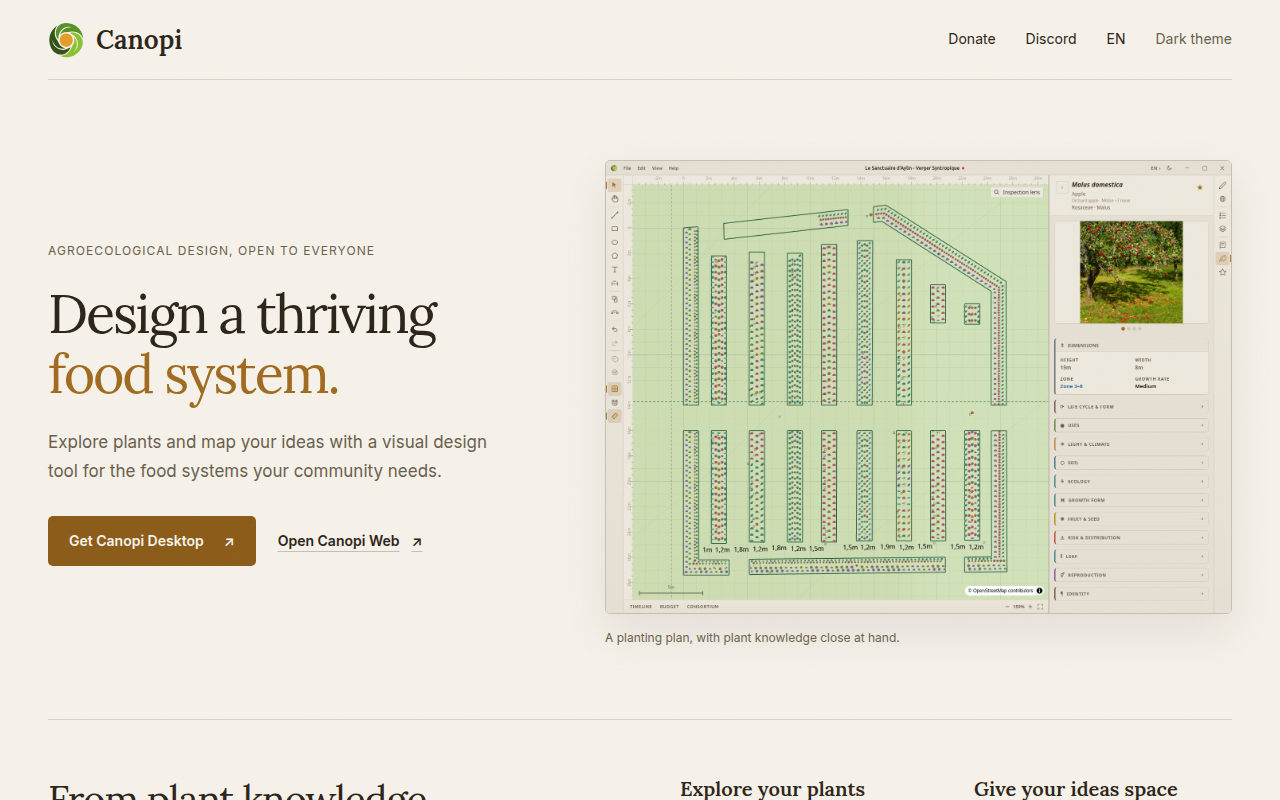
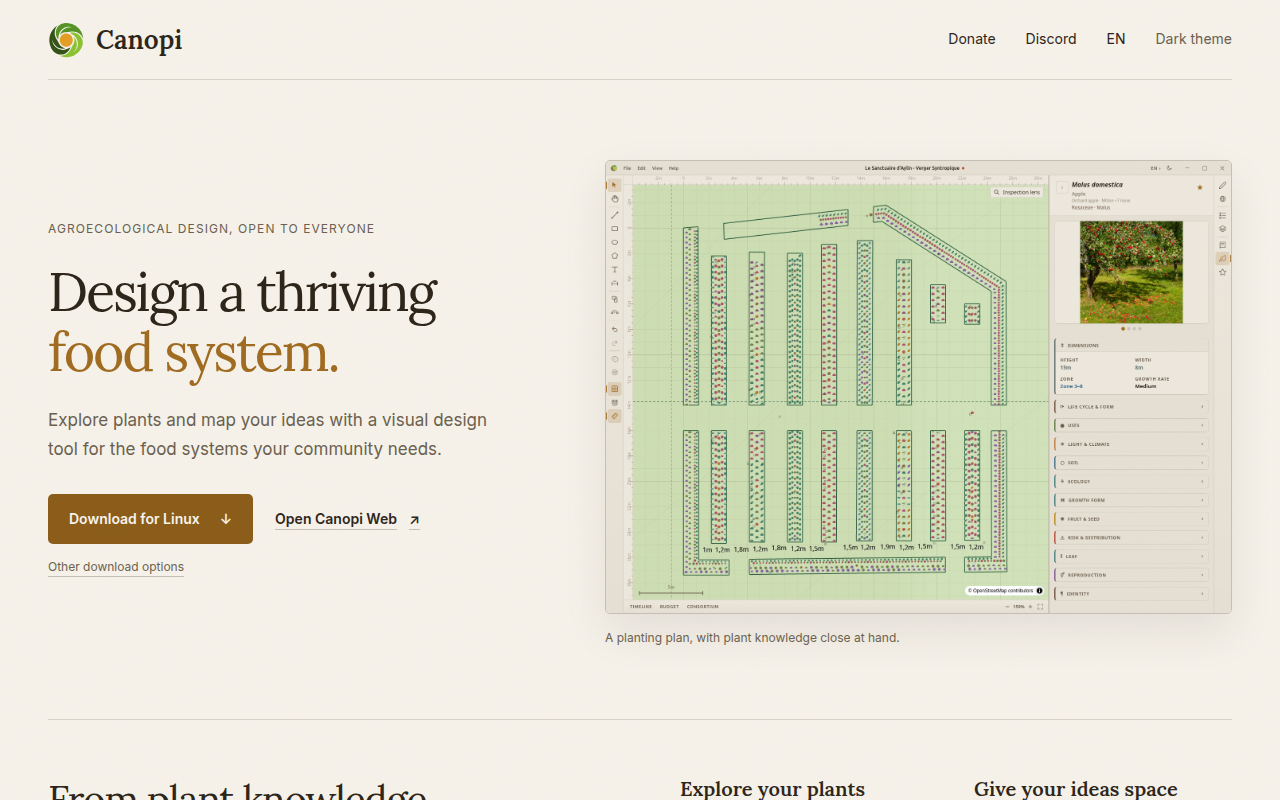
docs: improve proposal downloads and add restoration organizations

Changed region(s): [[0.0312, 0.2812, 0.375, 0.7188]]

diff --git a/docs/design-proposal/index.html b/docs/design-proposal/index.html
@@ -22,7 +22,7 @@
         <p class="eyebrow">Agroecological design, open to everyone</p>
         <h1 id="hero-title">Design a thriving<br><span>food system.</span></h1>
         <p class="lead">Explore plants and map your ideas with a visual design tool for the food systems your community needs.</p>
-        <div class="actions"><a class="button primary" href="#editions">Get Canopi Desktop <span aria-hidden="true">↗</span></a><a class="text-link" href="https://web.projectcanopi.com/">Open Canopi Web <span aria-hidden="true">↗</span></a></div>
+        <div class="actions"><a class="button primary" href="#download-options" data-desktop-download><span data-download-label>Download Canopi Desktop</span> <span aria-hidden="true">↓</span></a><a class="text-link" href="https://web.projectcanopi.com/">Open Canopi Web <span aria-hidden="true">↗</span></a></div><a class="text-link other-downloads" href="#download-options">Other download options</a>
       </div>
       <figure class="product"><a href="orchard-screenshot.png" aria-label="View full Canopi app screenshot"><img src="orchard-screenshot.png" width="1570" height="1135" alt="Canopi showing a syntropic orchard plan with diverse planting rows and spacing measurements beside an apple tree profile."></a><figcaption>A planting plan, with plant knowledge close at hand.</figcaption></figure>
     </section>
@@ -31,8 +31,8 @@
       <div class="workflow-copy"><article><h3>Explore your plants</h3><p>Bring plant dimensions, growing conditions and ecological information into your design decisions.</p></article><article><h3>Give your ideas space</h3><p>Arrange your planting plan on a scaled canvas, with plants and annotations in one workspace.</p></article><a class="text-link" href="#demo">See the canvas in action <span aria-hidden="true">↓</span></a></div>
     </section>
     <section class="demo wrap" id="demo" aria-labelledby="demo-title"><div class="section-heading"><h2 id="demo-title">A closer look at Canopi.</h2><p>Watch the design canvas in use.</p></div><video controls playsinline preload="none" poster="orchard-screenshot.png" aria-label="Silent demonstration of Canopi canvas tools"><source src="../../public/demo-canopi-720.mp4" type="video/mp4"></video><p class="caption">Silent screen recording. Use the playback controls to pause or explore.</p></section>
-    <section class="editions wrap" id="editions" aria-labelledby="editions-title"><div class="section-heading"><h2 id="editions-title">Choose where you design.</h2><p>Two editions. The same canvas tools.</p></div><div class="edition-grid"><article><h3>Canopi Desktop</h3><p>The larger plant catalog, on your computer.<br>Available for Linux, macOS and Windows.</p><a class="button primary" href="https://github.com/naejin/canopi/releases">Download Canopi Desktop <span aria-hidden="true">↗</span></a><p class="caption">Choose your installer on the releases page.</p></article><article><h3>Canopi Web</h3><p>Open the canvas in your browser.<br>A smaller plant catalog, with no installation.</p><a class="button secondary" href="https://web.projectcanopi.com/">Open Canopi Web <span aria-hidden="true">↗</span></a></article></div></section>
-    <section class="network wrap" aria-labelledby="network-title"><div class="section-heading"><h2 id="network-title">Agroecology network</h2><p>Discover organizations working across the wider agroecology movement.</p></div><div id="network-groups"><details><summary>Global</summary><ul><li><a href="https://www.deepseed.eu/">DeepSeed ↗</a></li><li><a href="https://agroecologyfund.org/">Agroecology Fund ↗</a></li><li><a href="https://www.accessagriculture.org/">Access Agriculture ↗</a></li><li><a href="https://savory.global/">Savory Institute ↗</a></li></ul></details><details><summary>Europe</summary><ul><li><a href="https://www.agroecology-europe.org/">Agroecology Europe ↗</a></li></ul></details><details><summary>France</summary><ul><li><a href="https://joala.fr/">Joala Syntropie ↗</a></li><li><a href="https://destinationsyntropie.org/">Destination Syntropie ↗</a></li><li><a href="https://www.lvh-france.com/">La Vache Heureuse ↗</a></li><li><a href="https://www.verdeterreprod.fr/">Ver de Terre Production ↗</a></li><li><a href="https://centre-national-agroecologie.fr/">Centre National d’Agroécologie ↗</a></li><li><a href="https://www.maraichagesolvivant.fr/">Maraîchage Sol Vivant ↗</a></li><li><a href="https://www.centreagroecologie.fr/">Centre for Living Agroecology and food Systems ↗</a></li></ul></details><details><summary>Switzerland</summary><ul><li><a href="https://www.biovision.ch/en/">Biovision ↗</a></li></ul></details><details><summary>United States</summary><ul><li><a href="https://rodaleinstitute.org/">Rodale Institute ↗</a></li><li><a href="https://regenorganic.org/">Regenerative Organic Alliance ↗</a></li></ul></details><details><summary>Brazil</summary><ul><li><a href="https://agendagotsch.com/en/">Agenda Gotsch ↗</a></li></ul></details><details><summary>India</summary><ul><li><a href="https://apcnf.in/">Andhra Pradesh Community Managed Natural Farming ↗</a></li></ul></details></div><p class="caption">An ecosystem directory, without implying partnership or endorsement.</p></section>
+    <section class="editions wrap" id="editions" aria-labelledby="editions-title"><div class="section-heading"><h2 id="editions-title">Choose where you design.</h2><p>Two editions. The same canvas tools.</p></div><div class="edition-grid"><article><h3>Canopi Desktop</h3><p>The larger plant catalog, on your computer.<br>Available for Linux, macOS and Windows.</p><a class="button primary" href="#download-options" data-desktop-download><span data-download-label>Download Canopi Desktop</span> <span aria-hidden="true">↓</span></a><a class="text-link other-downloads" href="#download-options">Other download options</a></article><article><h3>Canopi Web</h3><p>Open the canvas in your browser.<br>A smaller plant catalog, with no installation.</p><a class="button secondary" href="https://web.projectcanopi.com/">Open Canopi Web <span aria-hidden="true">↗</span></a></article></div><details id="download-options" class="download-options"><summary>Choose your download</summary><p>Choose the computer you want to install Canopi on.</p><div class="installer-grid"><section aria-labelledby="windows-title"><h3 id="windows-title">Windows</h3><a class="installer-link" data-installer="windows" href="https://github.com/naejin/canopi/releases/download/v1.0.1/Canopi_1.0.1_x64-setup.exe">Download for Windows <span aria-hidden="true">↓</span></a><p>64-bit Intel or AMD computer.</p><details><summary>More options</summary><a class="installer-link" data-installer="msi" href="https://github.com/naejin/canopi/releases/download/v1.0.1/Canopi_1.0.1_x64_en-US.msi">Windows MSI installer <span aria-hidden="true">↓</span></a></details></section><section aria-labelledby="mac-title"><h3 id="mac-title">macOS</h3><a class="installer-link" data-installer="mac-arm" href="https://github.com/naejin/canopi/releases/download/v1.0.1/Canopi_1.0.1_aarch64.dmg">Mac with Apple silicon <span aria-hidden="true">↓</span></a><a class="installer-link" data-installer="mac-intel" href="https://github.com/naejin/canopi/releases/download/v1.0.1/Canopi_1.0.1_x64.dmg">Mac with Intel chip <span aria-hidden="true">↓</span></a><p>Not sure? Open the Apple menu → About This Mac. Look for “Chip” (Apple M-series) or “Processor” (Intel).</p></section><section aria-labelledby="linux-title"><h3 id="linux-title">Linux</h3><a class="installer-link" data-installer="linux" href="https://github.com/naejin/canopi/releases/download/v1.0.1/Canopi_1.0.1_amd64.AppImage">Linux AppImage <span aria-hidden="true">↓</span></a><a class="installer-link" data-installer="deb" href="https://github.com/naejin/canopi/releases/download/v1.0.1/Canopi_1.0.1_amd64.deb">Ubuntu / Debian <span aria-hidden="true">↓</span></a><p>For 64-bit Intel or AMD computers. Choose Ubuntu / Debian if that is your Linux distribution.</p></section></div><p class="caption">On a phone, Chromebook or another device? You can <a href="https://web.projectcanopi.com/">open Canopi Web</a>.</p></details><p id="install-guidance" class="install-guidance" role="status" aria-live="polite"></p></section>
+    <section class="network wrap" aria-labelledby="network-title"><div class="section-heading"><h2 id="network-title">Agroecology network</h2><p>Discover organizations working across the wider agroecology movement.</p></div><div id="network-groups"><details><summary>Global</summary><ul><li><a href="https://www.deepseed.eu/">DeepSeed ↗</a></li><li><a href="https://agroecologyfund.org/">Agroecology Fund ↗</a></li><li><a href="https://www.accessagriculture.org/">Access Agriculture ↗</a></li><li><a href="https://savory.global/">Savory Institute ↗</a></li><li><a href="https://ecosystemrestorationcommunities.org/">Ecosystem Restoration Communities ↗</a></li><li><a href="https://www.ecosystemrestorationfriends.com/">Friends of the Ecosystem Restoration Movement ↗</a></li></ul></details><details><summary>Europe</summary><ul><li><a href="https://www.agroecology-europe.org/">Agroecology Europe ↗</a></li></ul></details><details><summary>France</summary><ul><li><a href="https://joala.fr/">Joala Syntropie ↗</a></li><li><a href="https://destinationsyntropie.org/">Destination Syntropie ↗</a></li><li><a href="https://www.lvh-france.com/">La Vache Heureuse ↗</a></li><li><a href="https://www.verdeterreprod.fr/">Ver de Terre Production ↗</a></li><li><a href="https://centre-national-agroecologie.fr/">Centre National d’Agroécologie ↗</a></li><li><a href="https://www.maraichagesolvivant.fr/">Maraîchage Sol Vivant ↗</a></li><li><a href="https://www.centreagroecologie.fr/">Centre for Living Agroecology and food Systems ↗</a></li></ul></details><details><summary>Switzerland</summary><ul><li><a href="https://www.biovision.ch/en/">Biovision ↗</a></li></ul></details><details><summary>United States</summary><ul><li><a href="https://rodaleinstitute.org/">Rodale Institute ↗</a></li><li><a href="https://regenorganic.org/">Regenerative Organic Alliance ↗</a></li></ul></details><details><summary>Brazil</summary><ul><li><a href="https://agendagotsch.com/en/">Agenda Gotsch ↗</a></li></ul></details><details><summary>India</summary><ul><li><a href="https://apcnf.in/">Andhra Pradesh Community Managed Natural Farming ↗</a></li></ul></details></div><p class="caption">An ecosystem directory, without implying partnership or endorsement.</p></section>
   </main>
   <footer class="wrap"><a class="brand" href="https://projectcanopi.com/"><img src="../../public/canopi-logo.svg" width="28" height="28" alt="">Canopi</a><span>AGPL v3</span><a href="https://github.com/naejin/canopi/releases">All releases on GitHub ↗</a></footer>
   <script>
@@ -41,5 +41,6 @@
     try { setTheme(localStorage.getItem('canopi-proposal-theme') === 'dark'); } catch {}
     toggle.addEventListener('click', () => { const dark = document.documentElement.dataset.theme !== 'dark'; setTheme(dark); try { localStorage.setItem('canopi-proposal-theme', dark ? 'dark' : 'light'); } catch {} });
   </script>
+  <script src="downloads.js"></script>
 </body>
 </html>

diff --git a/docs/design-proposal/downloads.js b/docs/design-proposal/downloads.js
@@ -1,0 +1,66 @@
+// Keep uncertain devices in the chooser instead of guessing an installer.
+function detectInstaller(ua, platform, architecture, touchPoints = 0) {
+  const device = `${platform} ${ua}`;
+  if (/Android|iPhone|iPad|iPod|CrOS/i.test(device) || (/Mac/i.test(device) && touchPoints > 1)) return null;
+  const arm = /arm|aarch/i.test(architecture || ua);
+  if (/Windows/i.test(device)) return arm ? null : 'windows';
+  if (/Mac/i.test(device)) {
+    if (!architecture) return null;
+    return arm ? 'mac-arm' : /x86|x64/i.test(architecture) ? 'mac-intel' : null;
+  }
+  if (/Linux/i.test(device)) return arm ? null : /x86_64|amd64|x64|x86/i.test(`${architecture} ${ua}`) ? 'linux' : null;
+  return null;
+}
+
+(() => {
+  const chooser = document.querySelector('#download-options');
+  const primaryLinks = [...document.querySelectorAll('[data-desktop-download]')];
+  const labels = { windows: 'Download for Windows', 'mac-arm': 'Download for Mac', 'mac-intel': 'Download for Mac', linux: 'Download for Linux' };
+  const guidance = {
+    windows: 'Open the downloaded .exe file from your Downloads folder and follow the installer steps.',
+    msi: 'Open the downloaded .msi file from your Downloads folder and follow the installer steps.',
+    'mac-arm': 'Open the downloaded .dmg file, then drag Canopi into Applications.',
+    'mac-intel': 'Open the downloaded .dmg file, then drag Canopi into Applications.',
+    linux: 'In your Downloads folder, open the AppImage file’s Properties and allow it to run as a program. Then open the file.',
+    deb: 'Open the downloaded .deb file with your software installer and choose Install.'
+  };
+
+  document.addEventListener('click', event => {
+    const link = event.target.closest('a');
+    if (!link || event.metaKey || event.ctrlKey || event.shiftKey || event.altKey) return;
+    if (link.getAttribute('href') === '#download-options') {
+      event.preventDefault();
+      chooser.open = true;
+      chooser.querySelector('summary').focus({ preventScroll: true });
+      chooser.scrollIntoView({ block: 'start' });
+    }
+    if (link.dataset.installer) {
+      const note = document.querySelector('#install-guidance');
+      note.textContent = `After downloading: ${guidance[link.dataset.installer]} If the download does not start, use the same download link to try again.`;
+      // Let the attachment link proceed normally; the page cannot confirm completion.
+      const container = link.closest('.intro, .edition-grid article, .installer-grid');
+      container.append(note);
+    }
+  });
+
+  const apply = (platform = '', architecture = '') => {
+    primaryLinks.forEach(link => {
+      link.href = '#download-options';
+      delete link.dataset.installer;
+      link.querySelector('[data-download-label]').textContent = 'Download Canopi Desktop';
+    });
+    const key = detectInstaller(navigator.userAgent, platform, architecture, navigator.maxTouchPoints);
+    if (!key) return;
+    const source = chooser.querySelector(`[data-installer="${key}"]`);
+    primaryLinks.forEach(link => {
+      link.href = source.href;
+      link.dataset.installer = key;
+      link.querySelector('[data-download-label]').textContent = labels[key];
+    });
+  };
+  apply();
+  const hints = navigator.userAgentData;
+  if (hints?.getHighEntropyValues) {
+    hints.getHighEntropyValues(['platform', 'architecture']).then(data => apply(data.platform, data.architecture)).catch(() => {});
+  }
+})();

diff --git a/docs/design-proposal/proposal.css b/docs/design-proposal/proposal.css
@@ -49,6 +49,17 @@ footer { display: flex; align-items: center; gap: 24px; padding-block: 28px; bor
 footer > a:last-child { margin-left: auto; }
 .skip { position: absolute; top: -100px; left: 20px; background: var(--canvas-bg); padding: 12px; z-index: 10000; }
 .skip:focus { top: 12px; }
+.other-downloads { display: flex; width: fit-content; font-size: 12px; font-weight: 400; color: var(--color-text-muted); }
+.download-options { margin-top: 28px; scroll-margin-top: 24px; }
+.download-options > summary { font-weight: 600; }
+.download-options p { font-size: 14px; color: var(--color-text-muted); line-height: 1.7; }
+.installer-grid { display: grid; grid-template-columns: repeat(3, minmax(0, 1fr)); gap: 32px; padding-block: 24px; }
+.installer-link { display: flex; justify-content: space-between; gap: 12px; padding-block: 14px; font-size: 14px; text-decoration: underline; text-underline-offset: 4px; }
+.installer-grid section { min-width: 0; }
+.installer-grid details { margin-top: 16px; }
+.install-guidance:not(:empty) { padding: 16px; margin-top: 16px; border-left: 3px solid var(--color-primary); background: var(--color-surface); font-size: 14px; line-height: 1.7; }
+.install-guidance { grid-column: 1 / -1; }
+@media (max-width: 639px) { .installer-grid { grid-template-columns: 1fr; gap: 28px; } }
 @media (min-width: 960px) { header { height: 80px; } }
 @media (max-width: 959px) { .hero { grid-template-columns: 1fr; gap: 36px; padding-block: 48px; } .intro { max-width: 600px; } .product { max-width: 720px; } .workflow { gap: 32px; } }
 @media (max-width: 639px) {

diff --git a/docs/design-proposal/README.md b/docs/design-proposal/README.md
@@ -22,14 +22,14 @@ These are design judgments based on browser inspection, not measured conversion 
 
 Keep the existing brand and make the product the focal point. Use a two-line headline, a concrete explanation, and the supplied app screenshot alongside each other. The screenshot begins at y=160 on desktop and links to the full-resolution source. At 1280 × 800, both hero actions remain visible.
 
-Follow with two short, observable capabilities: exploring plant information and arranging a planting plan. Keep the real demonstration as a user-controlled video further down. Explain the editions before sending visitors to the browser or installer releases. Retain all 17 organizations in seven native expandable country/region groups.
+Follow with two short, observable capabilities: exploring plant information and arranging a planting plan. Keep the real demonstration as a user-controlled video further down. Explain the editions before sending visitors to the browser or installer releases. Retain all 19 organizations in seven native expandable country/region groups.
 
 Design settings: variance 5, motion 2, density 3. Native HTML/CSS uses the established Canopi palette, Lora display and Inter body at weights 400/600. Motion only provides button feedback. Existing global grain is reused. The primary light-theme button uses the existing darker ochre hover shade to improve text contrast.
 
 ## Preview scope and validation
 
-This is an English review prototype. Production localization, platform-detected direct downloads, and the existing language menu remain in the live components. The prototype links to GitHub releases for installer selection and the current site for language selection. The light app screenshot intentionally remains an authentic screenshot when the surrounding page switches to dark mode.
+This is an English review prototype. Production localization and the existing language menu remain in the live components. The prototype offers direct installers for the repository’s 1.0.1 release, device-aware download buttons, a native on-page chooser, and installation guidance. Unknown devices and Macs without reliable chip detection keep the chooser. GitHub releases remain a footer resource. The current site provides language selection. The light app screenshot intentionally remains an authentic screenshot when the surrounding page switches to dark mode.
 
 Desktop, laptop and mobile screenshots accompany the prototype. Browser checks cover image/font loading, horizontal overflow, the theme toggle, expandable directory, video controls and real link destinations. The page has keyboard focus styling and a skip link. No new dependencies or production translation keys are introduced.
 
-The proposal uses the user-supplied orchard screenshot unchanged in the hero and as the video poster. The demo recording itself is unchanged. No invented interface or fabricated product outcome is used here.
+The proposal uses the user-supplied orchard screenshot unchanged in the hero and as the video poster. The demo recording itself is unchanged. The Global directory includes Ecosystem Restoration Communities and Friends of the Ecosystem Restoration Movement, using their official names and supplied URLs. No invented interface or fabricated product outcome is used here.
